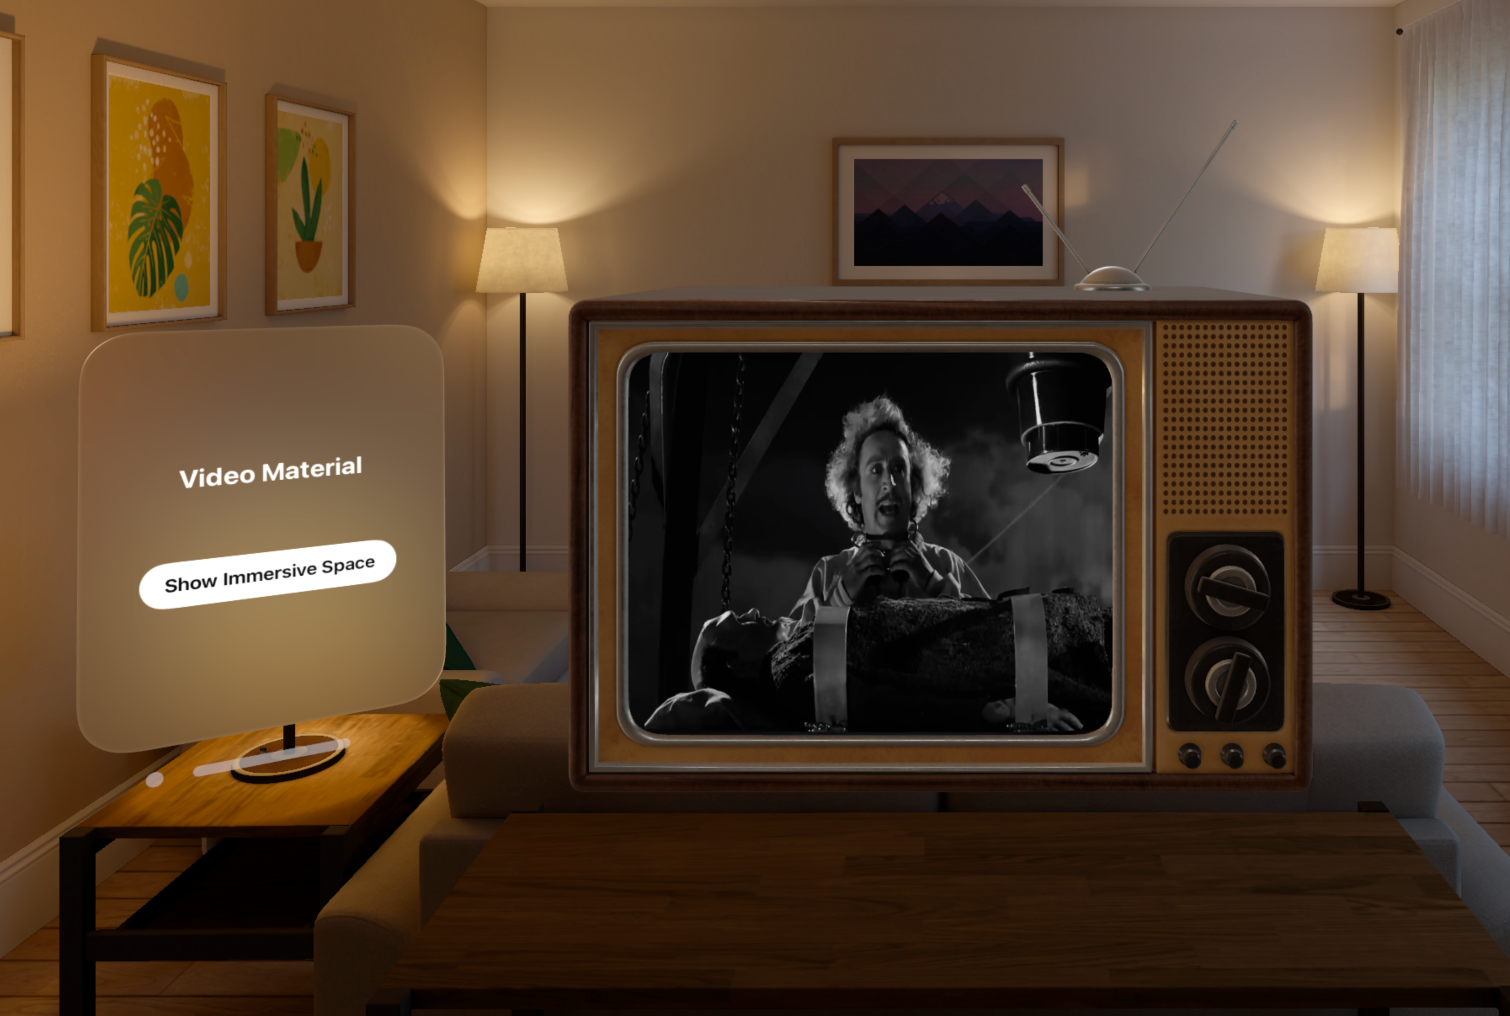
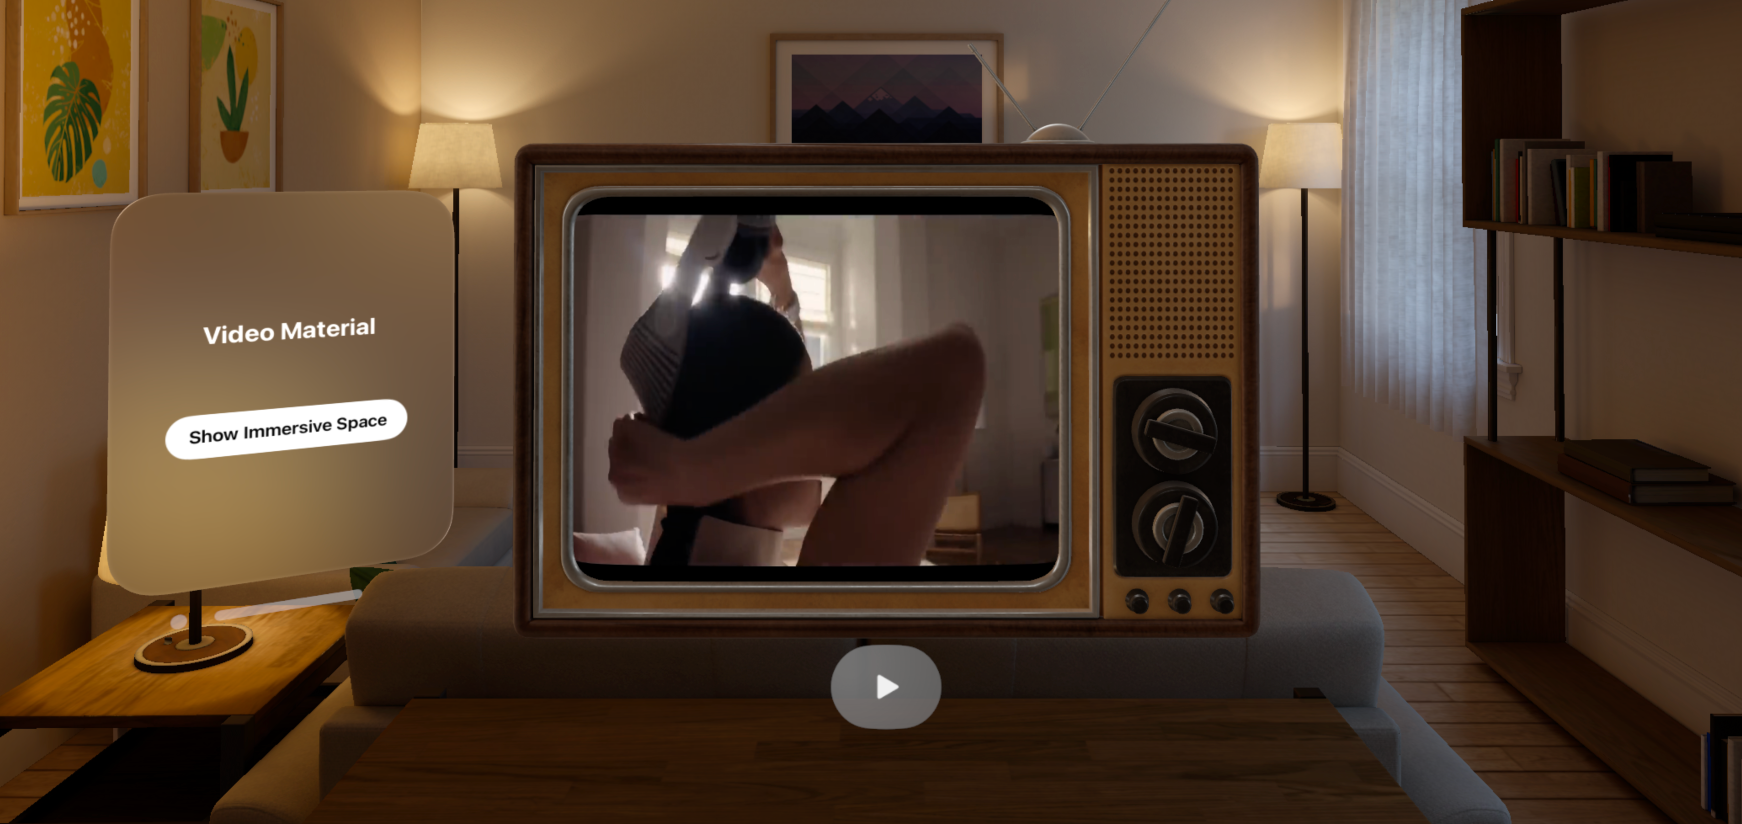
feat: add start and pause

diff --git a/12_VideoMaterial/VideoMaterial/VideoMaterial/ImmersiveView.swift b/12_VideoMaterial/VideoMaterial/VideoMaterial/ImmersiveView.swift
@@ -11,26 +11,45 @@ import RealityKitContent
 import AVKit
 
 struct ImmersiveView: View {
+    @State var entity = Entity()
+    
+    var playModel: PlayModel
+    
     var body: some View {
-        RealityView { content in
+        RealityView { content, attachments in
             let tv = try! await Entity(named: "tv_retro")
             tv.position = SIMD3<Float>(x: 0, y: 1, z: -1.5)
             if let screen = tv.findEntity(named: "tv_retro_2_RetroTVScreen") as? ModelEntity {
-                if let url = Bundle.main.url(forResource: "GetReadyRemixRB", withExtension: "mp4") {
-                    let player = AVPlayer(url: url)
-                    
-                    
-                    let material = VideoMaterial(avPlayer: player)
-                    screen.model?.materials = [material]
-                    player.play()
-                }
+                
+                let player = playModel.player
+                
+                let material = VideoMaterial(avPlayer: player)
+                screen.model?.materials = [material]
+                player.play()
+                
             }
-            content.add(tv)
+            
+            entity.addChild(tv)
+            if let attachment = attachments.entity(for: "controller") {
+                attachment.position = [0, 0.98, -1.2]
+                entity.addChild(attachment)
+            }
+            
+            content.add(entity)
+        } attachments: {
+            Attachment(id: "controller") {
+                ControllerView(playModel: playModel)
+            }
+        }
+        .onAppear() {
+            if let url = Bundle.main.url(forResource: "GetReadyRemixRB", withExtension: "mp4") {
+                playModel.load(url)
+            }
         }
     }
 }
 
 #Preview {
-    ImmersiveView()
+    ImmersiveView(playModel: PlayModel())
         .previewLayout(.sizeThatFits)
 }

diff --git a/12_VideoMaterial/VideoMaterial/VideoMaterial/PlayModel.swift b/12_VideoMaterial/VideoMaterial/VideoMaterial/PlayModel.swift
@@ -1,0 +1,51 @@
+//
+//  PlayModel.swift
+//  VideoMaterial
+//
+//  Created by xuchi on 2024/2/1.
+//
+
+import Foundation
+import AVFoundation
+import AVKit
+import Combine
+
+class PlayModel: ObservableObject {
+    var player = AVPlayer()
+    var item: AVPlayerItem?
+    
+    private var subscriptions = Set<AnyCancellable>()
+    @Published var isPlaying: Bool = false
+    
+    init() {
+        observePlayer()
+    }
+    
+    func load(_ url: URL) {
+        item = AVPlayerItem(url: url)
+        player.replaceCurrentItem(with: item)
+    }
+    
+    func togglePlayPause() {
+        if player.rate == 0 {
+            player.play()
+        } else {
+            player.pause()
+        }
+    }
+    
+    private func observePlayer() {
+        print("hey")
+        player.publisher(for: \.timeControlStatus)
+            .receive(on: RunLoop.main)
+            .sink(receiveValue: { [weak self] status in
+                switch status {
+                case .playing:
+                    self?.isPlaying = true
+                default:
+                    self?.isPlaying = false
+                }
+            })
+            .store(in: &subscriptions)
+    }
+}

diff --git a/12_VideoMaterial/VideoMaterial/VideoMaterial/ControllerView.swift b/12_VideoMaterial/VideoMaterial/VideoMaterial/ControllerView.swift
@@ -1,0 +1,31 @@
+//
+//  ControllerView.swift
+//  VideoMaterial
+//
+//  Created by xuchi on 2024/2/1.
+//
+
+import SwiftUI
+
+struct ControllerView: View {
+    @ObservedObject var playModel = PlayModel()
+    
+    var body: some View {
+        
+        Button(action: {
+            playModel.togglePlayPause()
+            
+        }) {
+            Image(systemName: playModel.isPlaying ? "pause.fill" : "play.fill")
+                .font(.system(size: 40))
+                .accessibilityLabel(playModel.isPlaying ? "Pause" : "Play")
+                .padding(.all, 40)
+        }
+        .padding(12)
+    }
+    
+}
+
+#Preview {
+    ControllerView(playModel: PlayModel())
+}

diff --git a/12_VideoMaterial/VideoMaterial/VideoMaterial/VideoMaterialApp.swift b/12_VideoMaterial/VideoMaterial/VideoMaterial/VideoMaterialApp.swift
@@ -9,6 +9,9 @@ import SwiftUI
 
 @main
 struct VideoMaterialApp: App {
+    
+    private var playModel = PlayModel()
+    
     var body: some Scene {
         WindowGroup {
             ContentView()
@@ -16,7 +19,7 @@ struct VideoMaterialApp: App {
         .defaultSize(CGSize(width: 300, height: 400))
 
         ImmersiveSpace(id: "ImmersiveSpace") {
-            ImmersiveView()
+            ImmersiveView(playModel: playModel)
         }
     }
 }
